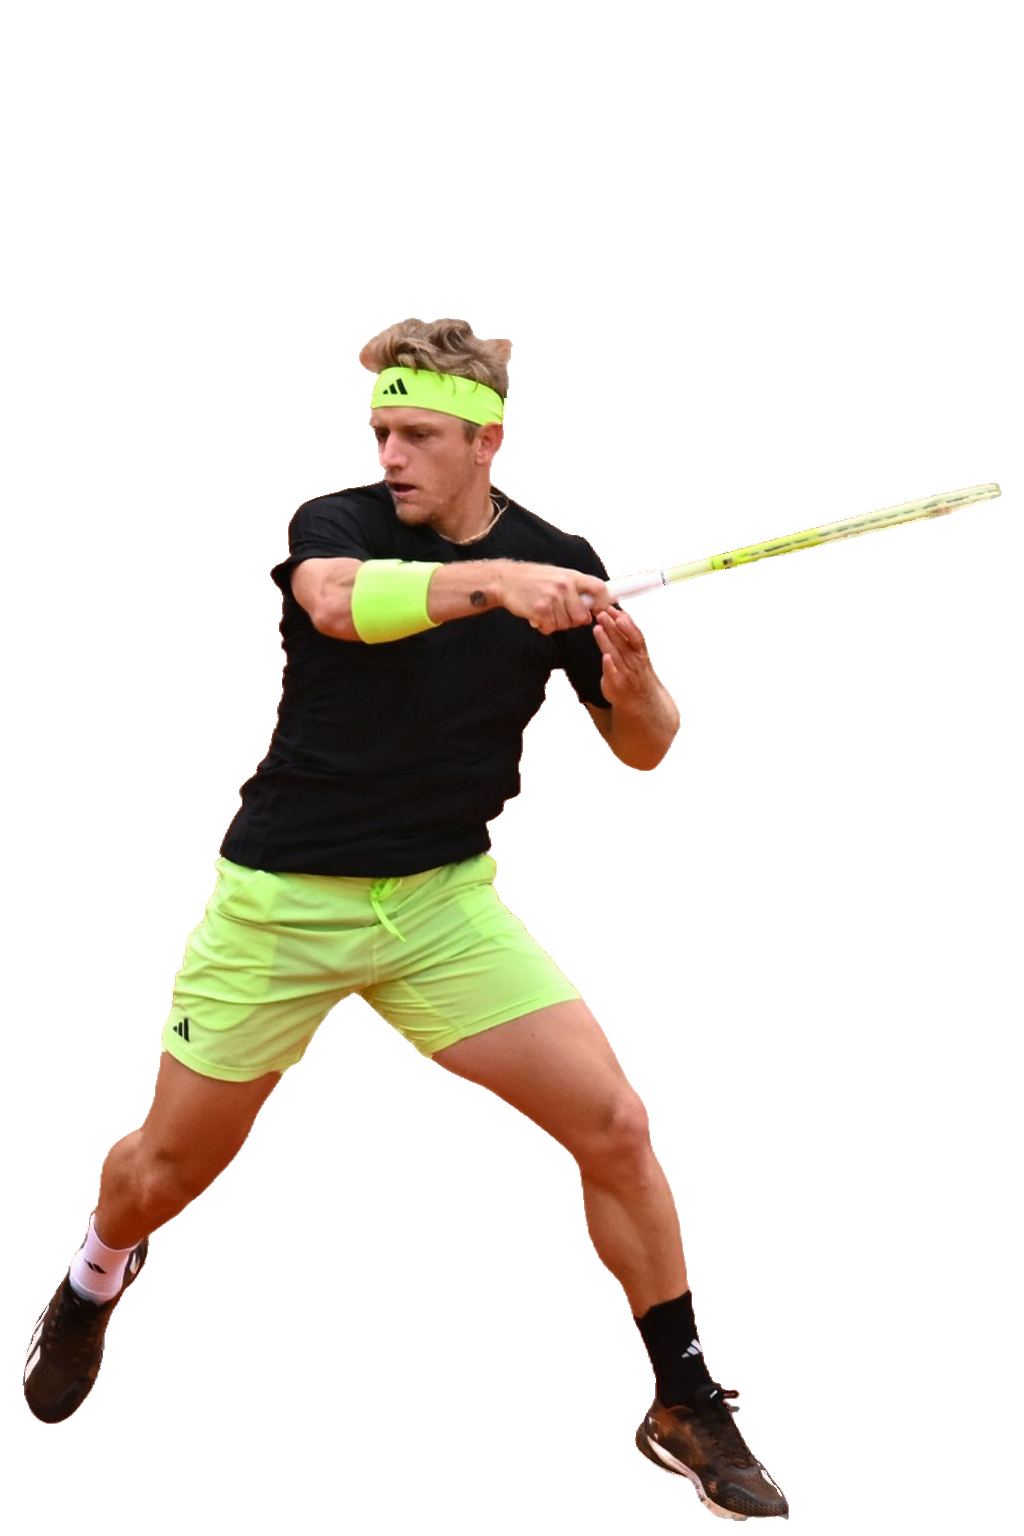
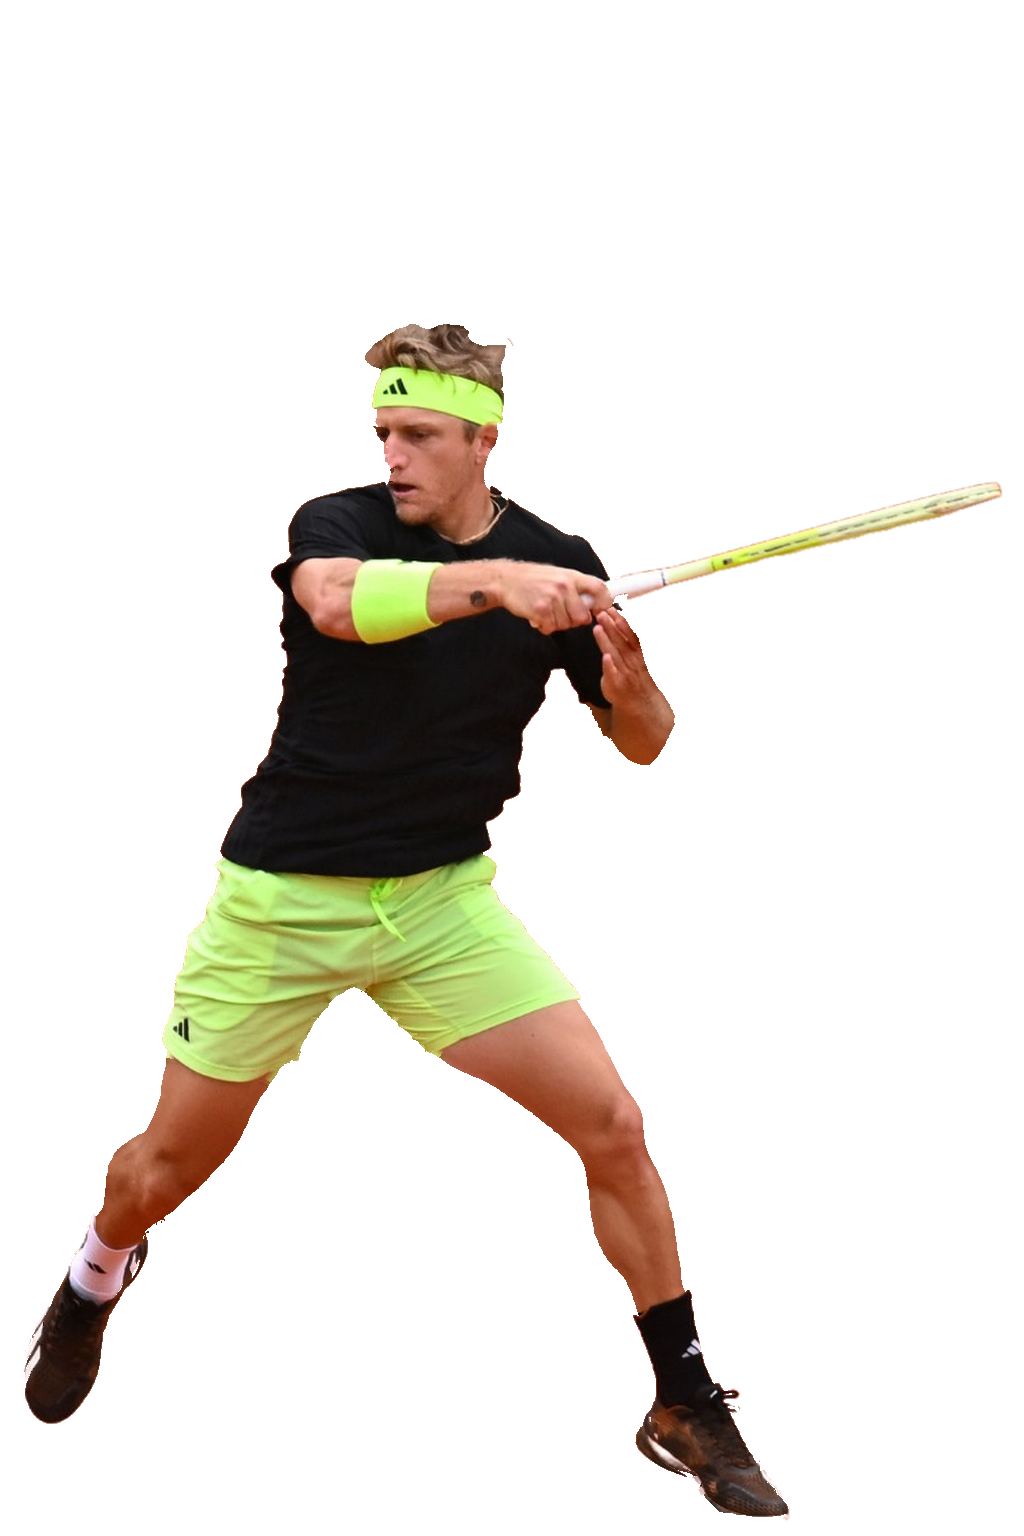
Remove deeper clay spill from player cutouts

diff --git a/app/MatchDashboard.tsx b/app/MatchDashboard.tsx
@@ -619,7 +619,7 @@ function PlayerPortrait({id,name,side}:{id:number|null;name:string;side:"left"|"
   const shouldMirror=homeSide!=null&&homeSide!==side;
   const sources=[
     ...(top20Slug?[`/players/cutouts/top20/${top20Slug}.png${top20Slug==="rafael-jodar"?"?v=action-oct25":top20Slug==="casper-ruud"?"?v=real-photo-nov2":""}`]:[]),
-    ...(top40Slug?[`/players/cutouts/top40/${top40Slug}.png${top40Slug==="francisco-cerundolo"?"?v=real-photo-oct19":["alejandro-davidovich-fokina","quentin-halys","stefanos-tsitsipas"].includes(top40Slug)?"?v=edge-clean-nov3":["luciano-darderi","tomas-machac","matteo-berrettini","andrey-rublev"].includes(top40Slug)?"?v=real-photo-nov2":""}`]:[]),
+    ...(top40Slug?[`/players/cutouts/top40/${top40Slug}.png${top40Slug==="francisco-cerundolo"?"?v=real-photo-oct19":["alejandro-davidovich-fokina","quentin-halys","stefanos-tsitsipas"].includes(top40Slug)?"?v=edge-clean-nov3b":["luciano-darderi","tomas-machac","matteo-berrettini","andrey-rublev"].includes(top40Slug)?"?v=real-photo-nov2":""}`]:[]),
     ...(top60Slug?[`/players/cutouts/top60/${top60Slug}.png${top60Slug==="daniel-merida-aguilar"?"?v=real-photo-nov2b":""}`]:[]),
     ...(top80Slug?[`/players/cutouts/top80/${top80Slug}.png?v=griekspoor2`]:[]),
     ...(top100Slug?[`/players/cutouts/top100/${top100Slug}.png?v=top100-5`]:[]),

diff --git a/scripts/extract_real_photo_cutouts.py b/scripts/extract_real_photo_cutouts.py
@@ -80,25 +80,26 @@ def clean_clay_fringe(image: Image.Image) -> Image.Image:
     alpha = pixels[:, :, 3]
     visible = alpha > 0
     edge_depth = ndimage.distance_transform_edt(visible)
-    core = (edge_depth >= 10) & (alpha >= 220)
+    core = (edge_depth >= 20) & (alpha >= 220)
     distance, nearest = ndimage.distance_transform_edt(~core, return_indices=True)
     interior = pixels[nearest[0], nearest[1], :3].astype(np.float32)
     rgb = pixels[:, :, :3].astype(np.float32)
     red, green, blue = rgb[:, :, 0], rgb[:, :, 1], rgb[:, :, 2]
     clay_spill = (
         visible
-        & (edge_depth <= 8)
-        & (distance <= 15)
+        & (edge_depth <= 16)
+        & (distance <= 25)
         & (red > 120)
         & (red > green * 1.12)
         & (green > blue * 1.02)
     )
-    strength = np.clip((9 - edge_depth) / 4, 0, 1)
+    strength = np.clip((17 - edge_depth) / 7, 0, 1)
     blended = rgb * (1 - strength[:, :, None]) + interior * strength[:, :, None]
     pixels[:, :, :3][clay_spill] = np.clip(blended[clay_spill], 0, 255).astype(np.uint8)
-    # The remaining clay outline is at most two edge pixels wide. Remove only
-    # the warm-colored outer rim, not a uniform band around the player.
-    pixels[:, :, 3][clay_spill & (edge_depth <= 2)] = 0
+    # The original clay spill penetrates several pixels into the mask. A
+    # two-pixel trim still leaves a conspicuous red outline at website size.
+    # Trim only clay-coloured edge pixels, never an entire silhouette band.
+    pixels[:, :, 3][clay_spill & (edge_depth <= 8)] = 0
     return Image.fromarray(pixels, "RGBA")
 
 
